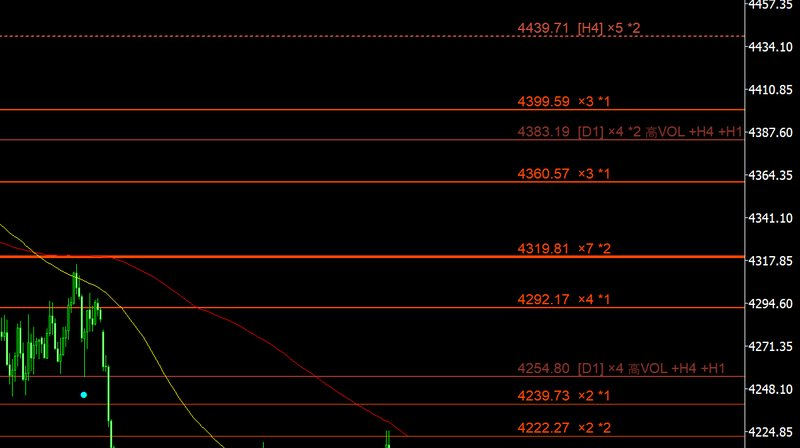
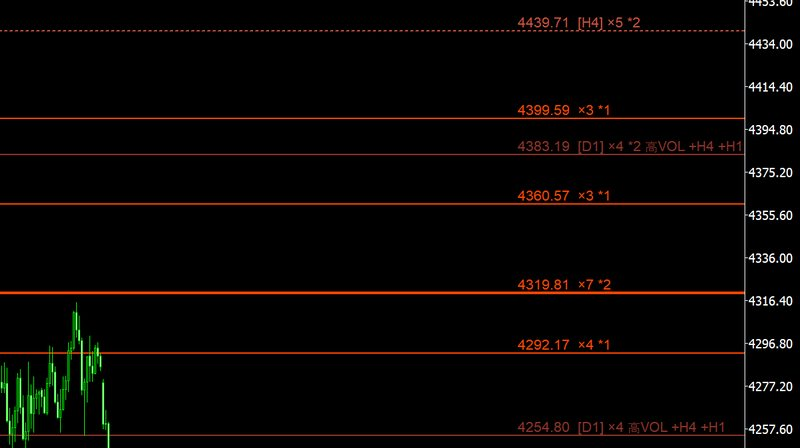
SR_AutoLevelsページの画像を差し替え（H1・H4・日足、RSIと移動平均線なし）
Claude-Session: https://claude.ai/code/session_01CByY8LxZ58DFqkXefo2oec

diff --git a/dist/sr-autolevels.html b/dist/sr-autolevels.html
@@ -447,7 +447,7 @@ a:focus-visible,button:focus-visible,summary:focus-visible{outline:2px solid var
 <div class="wrap" style="padding-top:28px"><nav class="crumb" aria-label="パンくずリスト"><a href="./">ホーム</a> <span aria-hidden="true">/</span> <a href="products.html#indicators">インジケーター</a> <span aria-hidden="true">/</span> <span>SR_AutoLevels</span></nav></div>
 <div class="wrap detail">
   <div style="display:grid;gap:18px">
-    <figure class="shot"><img src="sr-h1.jpg" alt="SR_AutoLevelsをXAUUSDの1時間足に表示した画面。H1の実線、H4の破線、日足の点線のサポート・レジスタンスと、タッチ回数のラベル" width="1600" height="777"><figcaption>XAUUSD 1時間足での表示例。実線がH1、破線がH4、点線が日足のライン。水色の点は出来高スパイク。</figcaption></figure>
+    <figure class="shot"><img src="sr-h1.jpg" alt="SR_AutoLevelsをXAUUSDの1時間足に表示した画面。H1の実線、H4の破線、日足の点線のサポート・レジスタンスと、タッチ回数のラベル" width="1600" height="778"><figcaption>XAUUSD 1時間足での表示例。実線がH1、破線がH4のライン。日足のラインは「[D1]」と表示。水色の点は出来高スパイク。</figcaption></figure>
   </div>
   <aside class="dl-box" id="download">
     <span class="chip st-free" style="justify-self:start">無料公開 ・ v1.20</span>
@@ -497,7 +497,11 @@ a:focus-visible,button:focus-visible,summary:focus-visible{outline:2px solid var
 
 <section class="section">
   <div class="wrap">
-    <figure class="shot"><img src="sr-d1.jpg" alt="SR_AutoLevelsを日足チャートに表示した画面。日足のサポート・レジスタンスのみが表示されている" width="1600" height="739" loading="lazy"><figcaption>日足チャートでは日足のラインだけを表示し、長期の節目を確認できます。</figcaption></figure>
+    <div class="sec-head"><div><div class="eyebrow">Timeframes</div><h2>時間足ごとの表示</h2></div><p>開いているチャートの時間足に合わせて、表示するラインが自動で切り替わります。</p></div>
+    <div style="display:grid;gap:28px">
+      <figure class="shot"><img src="sr-h4.jpg" alt="SR_AutoLevelsを4時間足チャートに表示した画面。H4と日足のラインが表示されている" width="1600" height="778" loading="lazy"><figcaption><b>4時間足</b>：H4のライン（実線）と日足のライン（[D1]）を表示。H4でも意識されている日足のラインには「+H4」が付きます。</figcaption></figure>
+      <figure class="shot"><img src="sr-d1.jpg" alt="SR_AutoLevelsを日足チャートに表示した画面。日足のサポート・レジスタンスのみが表示されている" width="1600" height="778" loading="lazy"><figcaption><b>日足</b>：日足のラインだけを表示し、長期の節目を確認できます。</figcaption></figure>
+    </div>
   </div>
 </section>
 

diff --git a/build.py b/build.py
@@ -1401,7 +1401,7 @@ def sr_body():
     return '''<div class="wrap" style="padding-top:28px"><nav class="crumb" aria-label="パンくずリスト"><a href="./">ホーム</a> <span aria-hidden="true">/</span> <a href="products.html#indicators">インジケーター</a> <span aria-hidden="true">/</span> <span>SR_AutoLevels</span></nav></div>''' + f'''
 <div class="wrap detail">
   <div style="display:grid;gap:18px">
-    <figure class="shot"><img src="sr-h1.jpg" alt="SR_AutoLevelsをXAUUSDの1時間足に表示した画面。H1の実線、H4の破線、日足の点線のサポート・レジスタンスと、タッチ回数のラベル" width="1600" height="777"><figcaption>XAUUSD 1時間足での表示例。実線がH1、破線がH4、点線が日足のライン。水色の点は出来高スパイク。</figcaption></figure>
+    <figure class="shot"><img src="sr-h1.jpg" alt="SR_AutoLevelsをXAUUSDの1時間足に表示した画面。H1の実線、H4の破線、日足の点線のサポート・レジスタンスと、タッチ回数のラベル" width="1600" height="778"><figcaption>XAUUSD 1時間足での表示例。実線がH1、破線がH4のライン。日足のラインは「[D1]」と表示。水色の点は出来高スパイク。</figcaption></figure>
   </div>
   <aside class="dl-box" id="download">
     <span class="chip st-free" style="justify-self:start">無料公開 ・ v1.20</span>
@@ -1451,7 +1451,11 @@ def sr_body():
 
 <section class="section">
   <div class="wrap">
-    <figure class="shot"><img src="sr-d1.jpg" alt="SR_AutoLevelsを日足チャートに表示した画面。日足のサポート・レジスタンスのみが表示されている" width="1600" height="739" loading="lazy"><figcaption>日足チャートでは日足のラインだけを表示し、長期の節目を確認できます。</figcaption></figure>
+    <div class="sec-head"><div><div class="eyebrow">Timeframes</div><h2>時間足ごとの表示</h2></div><p>開いているチャートの時間足に合わせて、表示するラインが自動で切り替わります。</p></div>
+    <div style="display:grid;gap:28px">
+      <figure class="shot"><img src="sr-h4.jpg" alt="SR_AutoLevelsを4時間足チャートに表示した画面。H4と日足のラインが表示されている" width="1600" height="778" loading="lazy"><figcaption><b>4時間足</b>：H4のライン（実線）と日足のライン（[D1]）を表示。H4でも意識されている日足のラインには「+H4」が付きます。</figcaption></figure>
+      <figure class="shot"><img src="sr-d1.jpg" alt="SR_AutoLevelsを日足チャートに表示した画面。日足のサポート・レジスタンスのみが表示されている" width="1600" height="778" loading="lazy"><figcaption><b>日足</b>：日足のラインだけを表示し、長期の節目を確認できます。</figcaption></figure>
+    </div>
   </div>
 </section>
 
